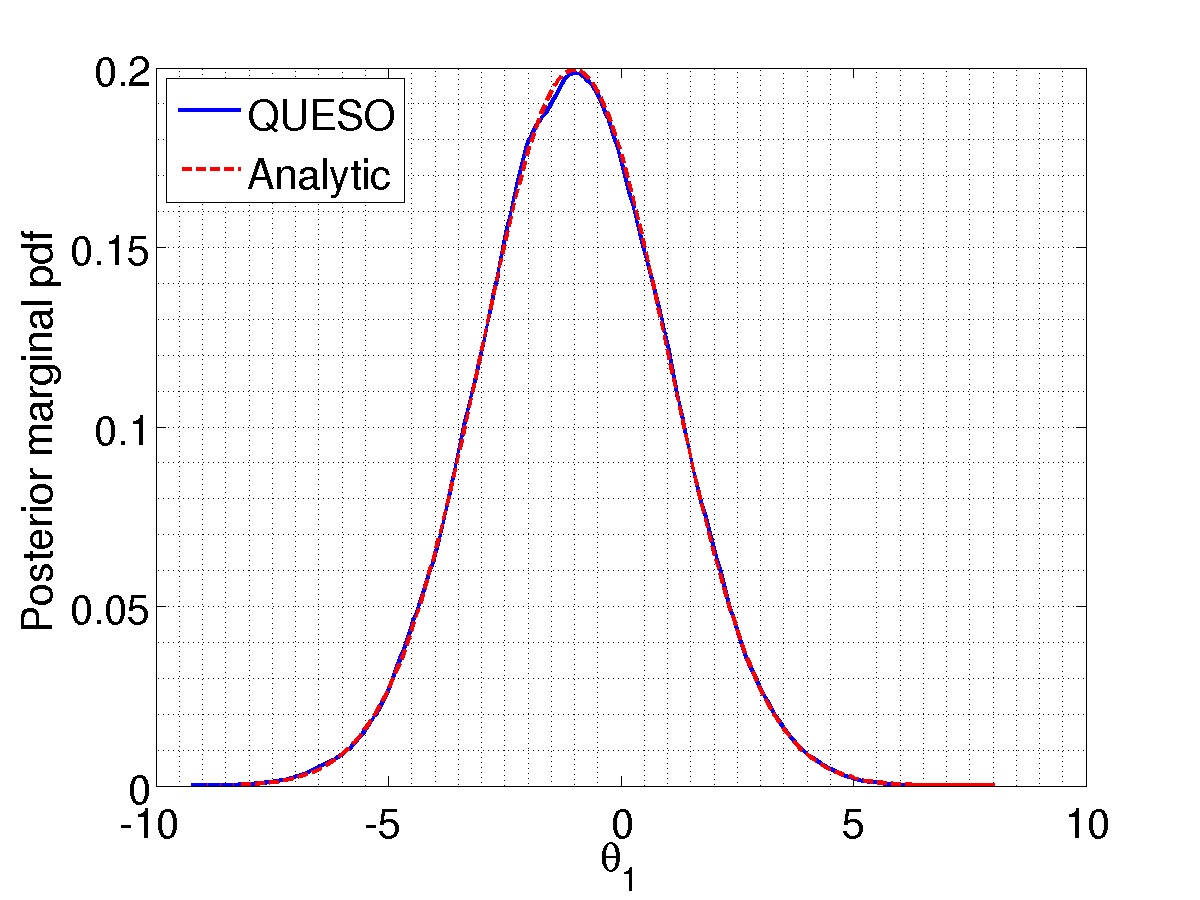
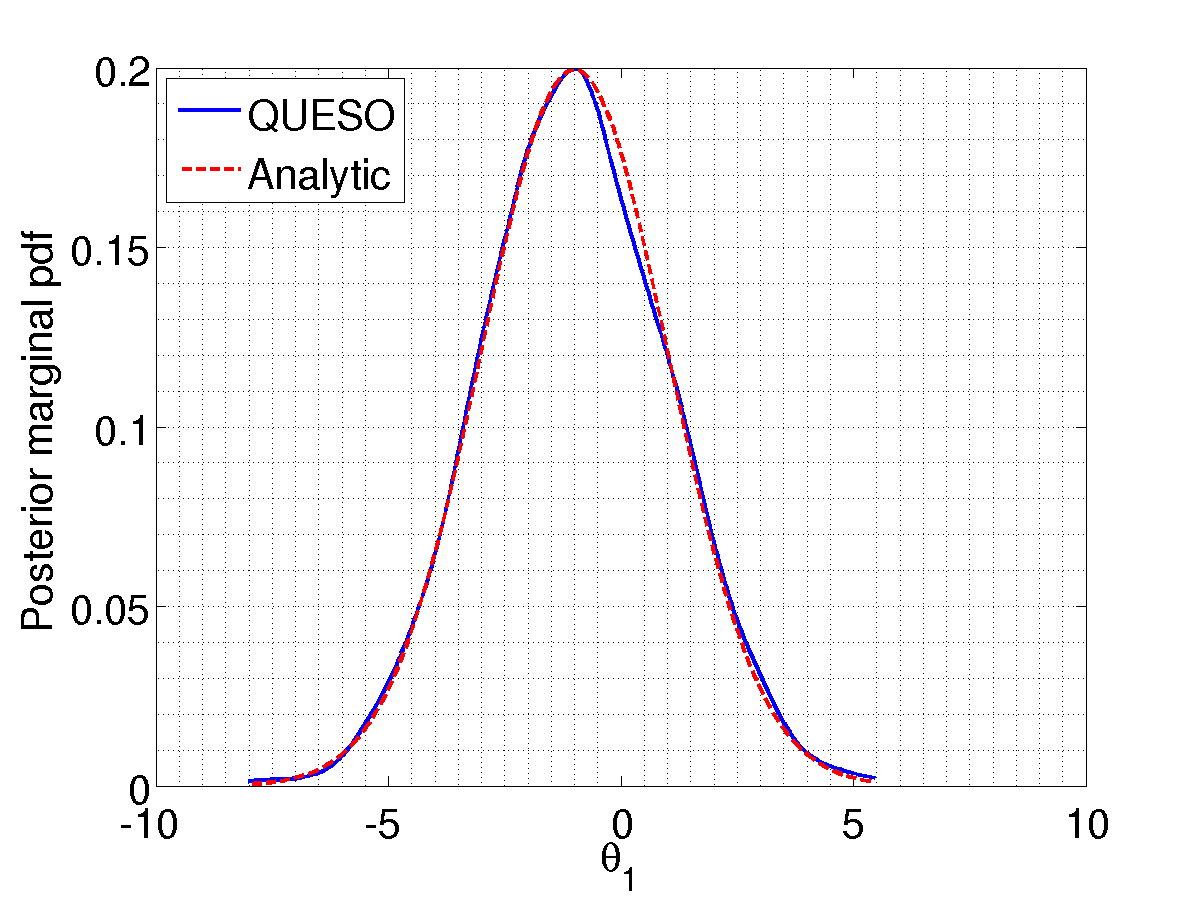
queso/docs/users: updating figures in chapter 4

diff --git a/users/users_4_appl_example.tex b/users/users_4_appl_example.tex
@@ -64,8 +64,8 @@ The posterior pdf is then given by
 
 It is clear that for such problem it is possible to analytically compute the exact posterior pdf as
 \begin{eqnarray*}
-\pi_{\text{post}}(\boldsymbol{\theta}) & = & \frac{1}{6\pi} e^{-\frac{1}{2}\left\{(\boldsymbol{\theta}-\boldsymbol{\mu})^T[\mathbf{C}^{-1}](\boldsymbol{\theta}-\boldsymbol{\mu})\right\}} \\
-                                       & = & \frac{1}{6\pi} e^{-\frac{1}{8}(\theta_1+1)^2 - \frac{1}{2}(\theta_2-2)^2}, \label{eq-example-exact-joint}
+\pi_{\text{post}}(\boldsymbol{\theta}) & = & \frac{1}{4\pi} e^{-\frac{1}{2}\left\{(\boldsymbol{\theta}-\boldsymbol{\mu})^T[\mathbf{C}^{-1}](\boldsymbol{\theta}-\boldsymbol{\mu})\right\}} \\
+                                       & = & \frac{1}{4\pi} e^{-\frac{1}{8}(\theta_1+1)^2 - \frac{1}{2}(\theta_2-2)^2}, \label{eq-example-exact-joint}
 \end{eqnarray*}
 and to sample it through the formula
 \begin{equation*}
@@ -130,7 +130,7 @@ Once the code is compiled, one just needs to run ``example\_gsl example.inp''.
 \begin{figure}[h!]
 \begin{center}
 \begin{verbatim}
-#include <example\_compute.h>
+#include <example_compute.h>
 
 int main(int argc, char* argv[])
 {
@@ -197,7 +197,7 @@ The example\_likelihood.h file
 \begin{figure}[h!]
 \begin{center}
 \begin{verbatim}
-#include <example\_likelihood.h>
+#include <example_likelihood.h>
 
 double likelihoodRoutine(
   const uqGslVectorClass& paramValues,
@@ -398,7 +398,7 @@ void compute(const uqFullEnvironmentClass& env) {
                           paramDomain,
                           likelihoodRoutine,
                           (void *) &likelihoodRoutine_Data,
-                          true); // routine computes [-2.*ln(function)]
+                          true); // routine computes [ln(function)]
 
   // Step 4 of 9: Instantiate the inverse problem
   uqUniformVectorRVClass<uqGslVectorClass,uqGslMatrixClass>
@@ -437,7 +437,7 @@ Initial part of example\_compute.C file: the first 4 of the 5 steps to deal with
   qoiRoutine_Data.coef2 = 1.;
   uqGenericVectorFunctionClass<uqGslVectorClass,uqGslMatrixClass,
                                uqGslVectorClass,uqGslMatrixClass>
-    qoiFunctionObj("like_",
+    qoiFunctionObj("qoi_",
                    paramDomain,
                    qoiSpace,
                    qoiRoutine,
